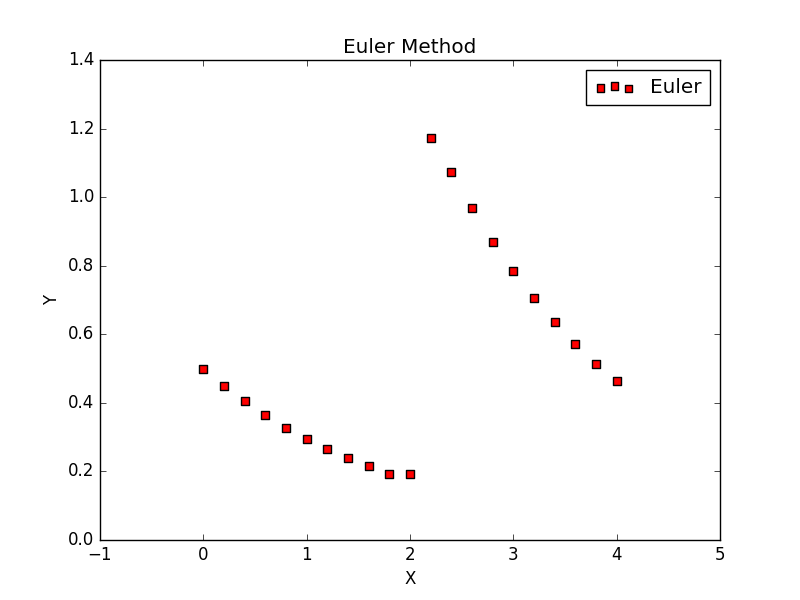
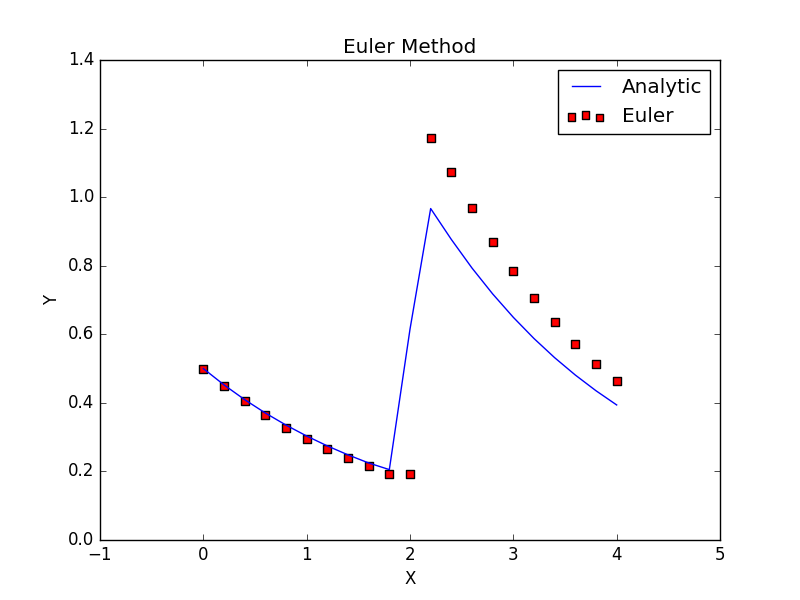
Done with RK45

diff --git a/main.py b/main.py
@@ -14,59 +14,74 @@ class ODESolver:
         self.x = [self.x0]
         self.y = [self.y0]
 
-    def analytic(self):
-        foo = self.equation.f
-        r = ode(f=foo,jac=None).set_integrator('dop853',method='bdf')
-        r.set_initial_value(self.y0,self.x0)
-        while r.successful() and r.t < self.xf:
-            r.integrate(r.t + 0.05)
-            self.x.append(r.t)
-            self.y.append(r.y)
-        self.plot(self.x,self.y,'Analytic ','plot')
-
     def euler(self):
+        f = self.equation.f
         x = [self.x0]
-        y = [self.y0]
+        ym = [self.y0]
         xn = x[0]
-        yn = y[0]
-        print('%(xn).5f\t%(yn).5f'%{'xn':xn, 'yn':yn})
+        yn = ym[0]
+
+        r = ode(f=f,jac=None).set_integrator('dop853',method='bdf')
+        r.set_initial_value(self.y0,self.x0)
+        r.integrate(xn)
+        y = [r.y[0]]
+        print('%(xn).5f\t%(yn).5f\t%(ya).5f\t%(e).5f'%{'xn':xn, 'yn':yn, 'ya':r.y,'e':(r.y-yn)*100/r.y})
+
         while 1:
-            yn = yn + self.h*self.equation.f(xn,yn)
+            yn = yn + self.h*f(xn,yn)
             xn = xn + self.h
-            print('%(xn).5f\t%(yn).5f'%{'xn':xn, 'yn':yn})
+            r.integrate(xn)
+            print('%(xn).5f\t%(yn).5f\t%(ya).5f\t%(e).5f'%{'xn':xn, 'yn':yn, 'ya':r.y,'e':(r.y-yn)*100/r.y})
             x.append(xn)
-            y.append(yn)
+            ym.append(yn)
+            y.append(r.y[0])
             if xn > self.xf:
                 break
-        self.plot(x,y,'Euler','scatter')
+        self.plot(x,ym,y,'Euler','scatter')
 
     def midpoint(self):
         f = self.equation.f
         h = self.h
         x = [self.x0]
-        y = [self.y0]
+        ym = [self.y0]
         xn = x[0]
-        yn = y[0]
-        print('%(xn).5f\t%(yn).5f'%{'xn':xn, 'yn':yn})
+        yn = ym[0]
+        
+        r = ode(f=f,jac=None).set_integrator('dop853',method='bdf')
+        r.set_initial_value(self.y0,self.x0)
+        r.integrate(xn)
+        y = [r.y[0]]
+        print('%(xn).5f\t%(yn).5f\t%(ya).5f\t%(e).5f'%{'xn':xn, 'yn':yn, 'ya':r.y,'e':(r.y-yn)*100/r.y})
+        
         while 1:
             yn = yn + h*f(xn+(h/2),yn + (h*f(xn,yn)/2))
             xn = xn + h
-            print('%(xn).5f\t%(yn).5f'%{'xn':xn, 'yn':yn})
+            
+            r.integrate(xn)
+            print('%(xn).5f\t%(yn).5f\t%(ya).5f\t%(e).5f'%{'xn':xn, 'yn':yn, 'ya':r.y,'e':(r.y-yn)*100/r.y})
+        
             x.append(xn)
-            y.append(yn)
+            ym.append(yn)
+            y.append(r.y[0])
             if xn > self.xf:
                 break
-        self.plot(x,y,'Midpoint','scatter')
+        self.plot(x,ym,y,'Midpoint','scatter')
 
     def rk4(self):
         f = self.equation.f
         h = self.h
         x = [self.x0]
-        y = [self.y0]
+        ym = [self.y0]
         xn = x[0]
-        yn = y[0]
+        yn = ym[0]
         xf = self.xf
-        print('%(xn).5f\t%(yn).5f'%{'xn':xn, 'yn':yn})
+
+        r = ode(f=f,jac=None).set_integrator('dop853',method='bdf')
+        r.set_initial_value(self.y0,self.x0)
+        r.integrate(xn)
+        y = [r.y[0]]
+        print('%(xn).5f\t%(yn).5f\t%(ya).5f\t%(e).5f'%{'xn':xn, 'yn':yn, 'ya':r.y,'e':(r.y-yn)*100/r.y})
+                
         while xn < xf:
             k1 = h*f(xn,yn)
             k2 = h*f(xn + h/2,yn + k1/2)
@@ -74,25 +89,34 @@ class ODESolver:
             k4 = h*f(xn + h,yn + k3)
             xn = xn + h
             yn = yn + k1/6 + k2/3 + k3/3 + k4/6
-            print('%(xn).5f\t%(yn).5f'%{'xn':xn, 'yn':yn})
+            r.integrate(xn)
+            print('%(xn).5f\t%(yn).5f\t%(ya).5f\t%(e).5f'%{'xn':xn, 'yn':yn, 'ya':r.y,'e':(r.y-yn)*100/r.y})
             x.append(xn)
-            y.append(yn)
-        self.plot(x,y,'4th Order RK','scatter')
+            ym.append(yn)
+            y.append(r.y[0])
+        self.plot(x,ym, y,'4th Order RK','scatter')
 
     def rk45(self):
         f = self.equation.f
         h = self.h
         x = [self.x0]
-        y = [self.y0]
+        ym = [self.y0]
+         
         xn = x[0]
-        yn = y[0]
+        yn = ym[0]
         xf = self.xf
         tol = self.tol
         alpha = self.alpha
-        print('%(xn).5f\t%(yn).5f'%{'xn':xn, 'yn':yn})
+        
+        r = ode(f=f,jac=None).set_integrator('dop853',method='bdf')
+        r.set_initial_value(self.y0,self.x0)
+        r.integrate(xn)
+        y = [r.y[0]]
+        print('%(xn).5f\t%(yn).5f\t%(ya).5f\t%(e).5f'%{'xn':xn, 'yn':yn, 'ya':r.y,'e':(r.y-yn)*100/r.y})
+        
         while xn < xf:
             h = min(h, xf - xn, self.hmax)
-            # print('t',xn,h)
+
             k1 = h*f(xn,yn)
             k2 = h*f(xn + h/4, yn + k1/4)
             k3 = h*f(xn + 3*h/8, yn + 3*k1/32 + 9*k2/32)
@@ -100,41 +124,56 @@ class ODESolver:
             k5 = h*f(xn + h, yn + 439*k1/216 - 8*k2 + 3680*k3/513 - 845*k4/4104)
             k6 = h*f(xn + h/2, yn - 8*k1/27 + 2*k2 - 3544*k3/2565 + 1859*k4/4104 - 11*k5/40)
 
-            xn = xn + h
             y4 = yn + 25*k1/216 + 1408*k3/2565 + 2197*k4/4101 - k5/5
             y5 = yn + 16*k1/135 + 6656*k3/12825 + 28561*k4/56430 - 9*k5/50 + 2*k6/55
+
+            # k1 = h*f(xn,yn)
+            # k2 = h*f(xn + h/2,yn + k1/2)
+            # k3 = h*f(xn + h/2,yn + k2/2)
+            # k4 = h*f(xn + h,yn + k3)
+            # y4 = yn + k1/6 + k2/3 + k3/3 + k4/6
+
+            # k1 = h*f(xn, yn)
+            # k2 = h*f(xn + h/4, yn + k1/4)
+            # k3 = h*f(xn + h/4, yn + k1/8 + k2/8)
+            # k4 = h*f(xn + h/2, yn - k2/2 + k3 )
+            # k5 = h*f(xn + 3*h/4, yn + 3*k1/16 + 9*k4/16)
+            # k6 = h*f(xn + h, yn - 3*k1/7 + 2*k2/7 + 12*k3/7 - 12*k4/7 + 8*k5/7)
+            # y5 = yn + 7*k1/90 + 32*k3/90 + 12*k4/90 + 32*k5/90 + 7*k6/90
+
+            
 
             E = abs(y5 - y4)
             # print(R, abs(zn-yn), h)
             
             if E < tol:
                 yn = y5
-                print('%(xn).5f\t%(yn).5f'%{'xn':xn, 'yn':yn})
+                xn = xn + h
+                r.integrate(xn)
+                print('%(xn).5f\t%(yn).5f\t%(ya).5f\t%(e).5f'%{'xn':xn, 'yn':yn, 'ya':r.y,'e':(r.y-yn)*100/r.y})
                 x.append(xn)
-                y.append(yn)
+                ym.append(yn)
+                y.append(r.y[0])
             else:
-                delta = (tol/E)**alpha
-                h = delta*h
+                h = 0.84*h*(tol*h/E)**alpha 
                 
-        self.plot(x,y,"RK45","scatter")
+        self.plot(x,ym,y,"RK45","scatter")
 
-    def plot(self,x,y,method,pl):
+    def plot(self,x,ym,y,method,pl):
         import matplotlib.pyplot as plt
         fig = plt.figure()
         ax = fig.add_subplot(111)
         ax.set_title(method+" Method")
         ax.set_ylabel("Y")
         ax.set_xlabel("X")
-        if pl == 'plot':
-            ax.plot(x,y,'-')
-        else:
-            ax.scatter(x,y, s=30, c='r', marker="s", label=method)
+        ax.plot(x,y,'-',label='Analytic')
+        ax.scatter(x,ym, s=30, c='r', marker="s", label=method)
         plt.legend(loc='best')
         plt.show()
         fig.savefig(method+" plot.png")
     
 o = ODESolver()
-# o.euler()
-# o.midpoint()
+o.euler()
+o.midpoint()
 o.rk4()
-# o.rk45()
+o.rk45()
